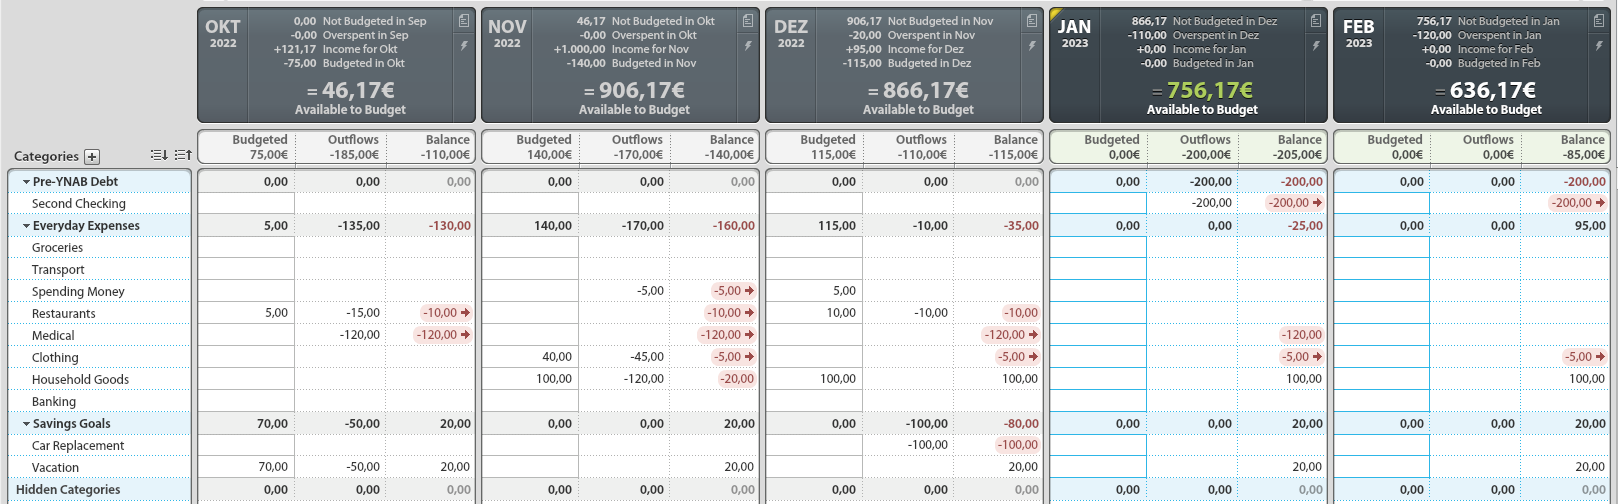
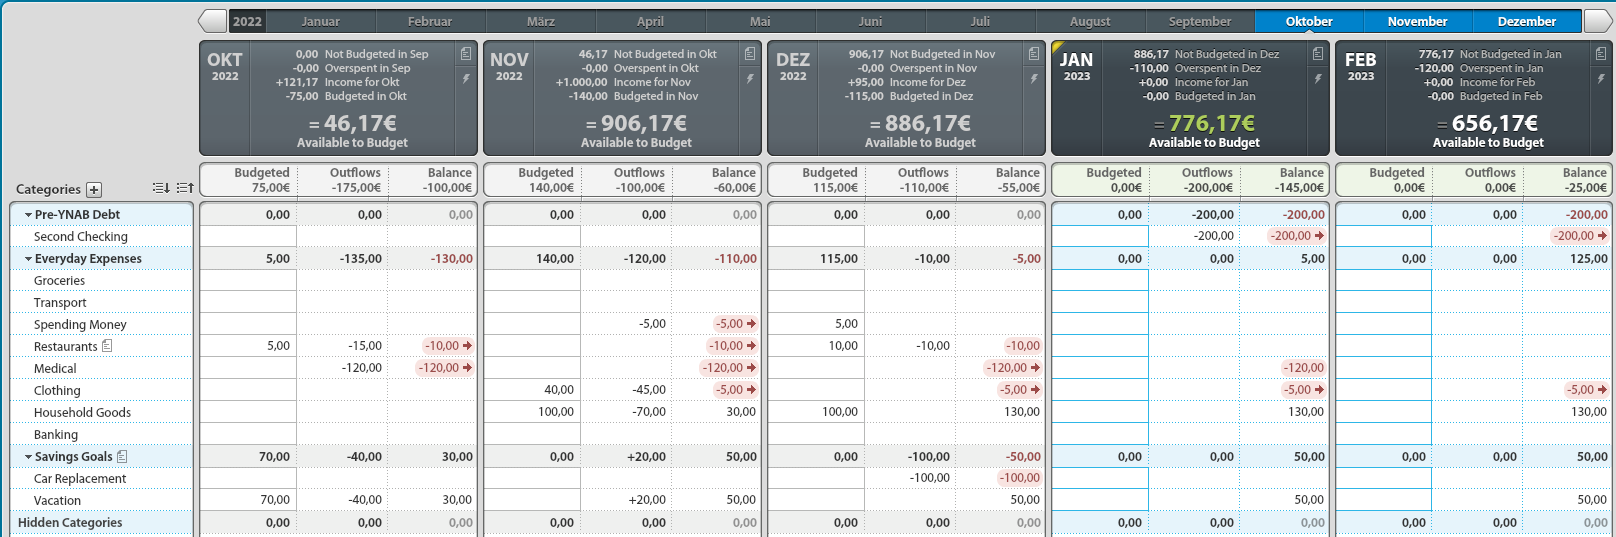
test: more tests for YNAB 4 imports

diff --git a/pkg/importer/parser/ynab4/parse_test.go b/pkg/importer/parser/ynab4/parse_test.go
@@ -58,6 +58,7 @@ func TestParseFail(t *testing.T) {
 		{"CorruptNonParseableTransactionDate", "error parsing transactions: could not parse date"},
 		{"CorruptMonthlyBudget", "error parsing budget allocations: could not parse date"},
 		{"CorruptNoMatchingTransfer", "could not find corresponding transaction"},
+		{"CorruptMissingTargetTransaction", "could not find corresponding transaction for sub-transaction transfer"},
 	}
 
 	for _, tt := range tests {
@@ -134,11 +135,11 @@ func TestParse(t *testing.T) {
 		budgeted  float32
 		income    float32
 	}{
-		{types.NewMonth(2022, 10), 46.17, -110, -185, 75, 0},
-		{types.NewMonth(2022, 11), 906.17, -140, -170, 140, 1000},
-		{types.NewMonth(2022, 12), 866.17, -115, -110, 115, 95},
-		{types.NewMonth(2023, 1), 556.17, -5, 0, 0, 0},
-		{types.NewMonth(2023, 2), 436.17, 115, 0, 0, 0},
+		{types.NewMonth(2022, 10), 46.17, -100, -175, 75, 0},
+		{types.NewMonth(2022, 11), 906.17, -60, -100, 140, 1000},
+		{types.NewMonth(2022, 12), 886.17, -55, -110, 115, 95},
+		{types.NewMonth(2023, 1), 576.17, 55, 0, 0, 0},
+		{types.NewMonth(2023, 2), 456.17, 175, 0, 0, 0},
 	}
 
 	for _, tt := range tests {
@@ -278,10 +279,10 @@ func testEnvelopes(t *testing.T, categories []models.Category, envelopes []model
 //
 // It assumes that there is only one transaction per day with the same note.
 func testTransactions(t *testing.T, accounts []models.Account, envelopes []models.Envelope, transactions []models.Transaction) {
-	// 24 transactions total in YNAB 4 (counting each sub-transaction as 1)
+	// 27 transactions total in YNAB 4 (counting each sub-transaction as 1)
 	// subtract 5 Starting balance transactions
 	// subtract 5 transfers (since transfers in EZ are only one transaction, not 2)
-	assert.Len(t, transactions, 14, "Number of transactions is wrong")
+	assert.Len(t, transactions, 17, "Number of transactions is wrong")
 
 	tests := []struct {
 		date                  time.Time
@@ -296,12 +297,15 @@ func testTransactions(t *testing.T, accounts []models.Account, envelopes []model
 	}{
 		{date(2022, 10, 10), 120, "", "Checking", "Hospital", "Medical", false, false, types.Month{}},
 		{date(2022, 10, 20), 15, "", "Checking", "Some Restaurant", "Restaurants", true, false, types.Month{}},
-		{date(2022, 10, 21), 50, "", "Checking", "Savings", "Vacation", true, false, types.Month{}},
+		{date(2022, 10, 21), 50, "", "Checking", "Savings", "Vacation", true, true, types.Month{}},
+		{date(2022, 10, 21), 10, "Put in too much", "Savings", "Checking", "Vacation", true, false, types.Month{}},
 		{date(2022, 10, 25), 1000, "", "Employer", "Checking", "", false, true, types.NewMonth(2022, 11)},
 		{date(2022, 11, 1), 30, "Sweatpants", "Checking", "Online Shop", "Clothing", true, false, types.Month{}},
 		{date(2022, 11, 1), 120, "Kitchen Appliance", "Checking", "Online Shop", "Household Goods", true, false, types.Month{}},
 		{date(2022, 11, 10), 100, "Needed some cash", "Checking", "Cash", "", false, true, types.Month{}},
 		{date(2022, 11, 10), 5, "Needed some cash: Withdrawal Fee", "Checking", "YNAB 4 Import - No Payee", "Spending Money", false, false, types.Month{}},
+		{date(2022, 11, 11), 20, "Taking some back out", "Savings", "Checking", "Vacation", true, false, types.Month{}},
+		{date(2022, 11, 11), 50, "Grandma gave me 50 bucks for a new mixer", "YNAB 4 Import - No Payee", "Checking", "Household Goods", false, false, types.Month{}},
 		{date(2022, 11, 15), 95, "Compensation for returned goods", "Online Platform", "Checking", "", false, false, types.NewMonth(2022, 12)},
 		{date(2022, 11, 15), 15, "", "Checking", "Online Platform", "Clothing", false, false, types.Month{}},
 		{date(2022, 11, 28), 10, "", "Checking", "Accidental Account", "", false, false, types.Month{}},
